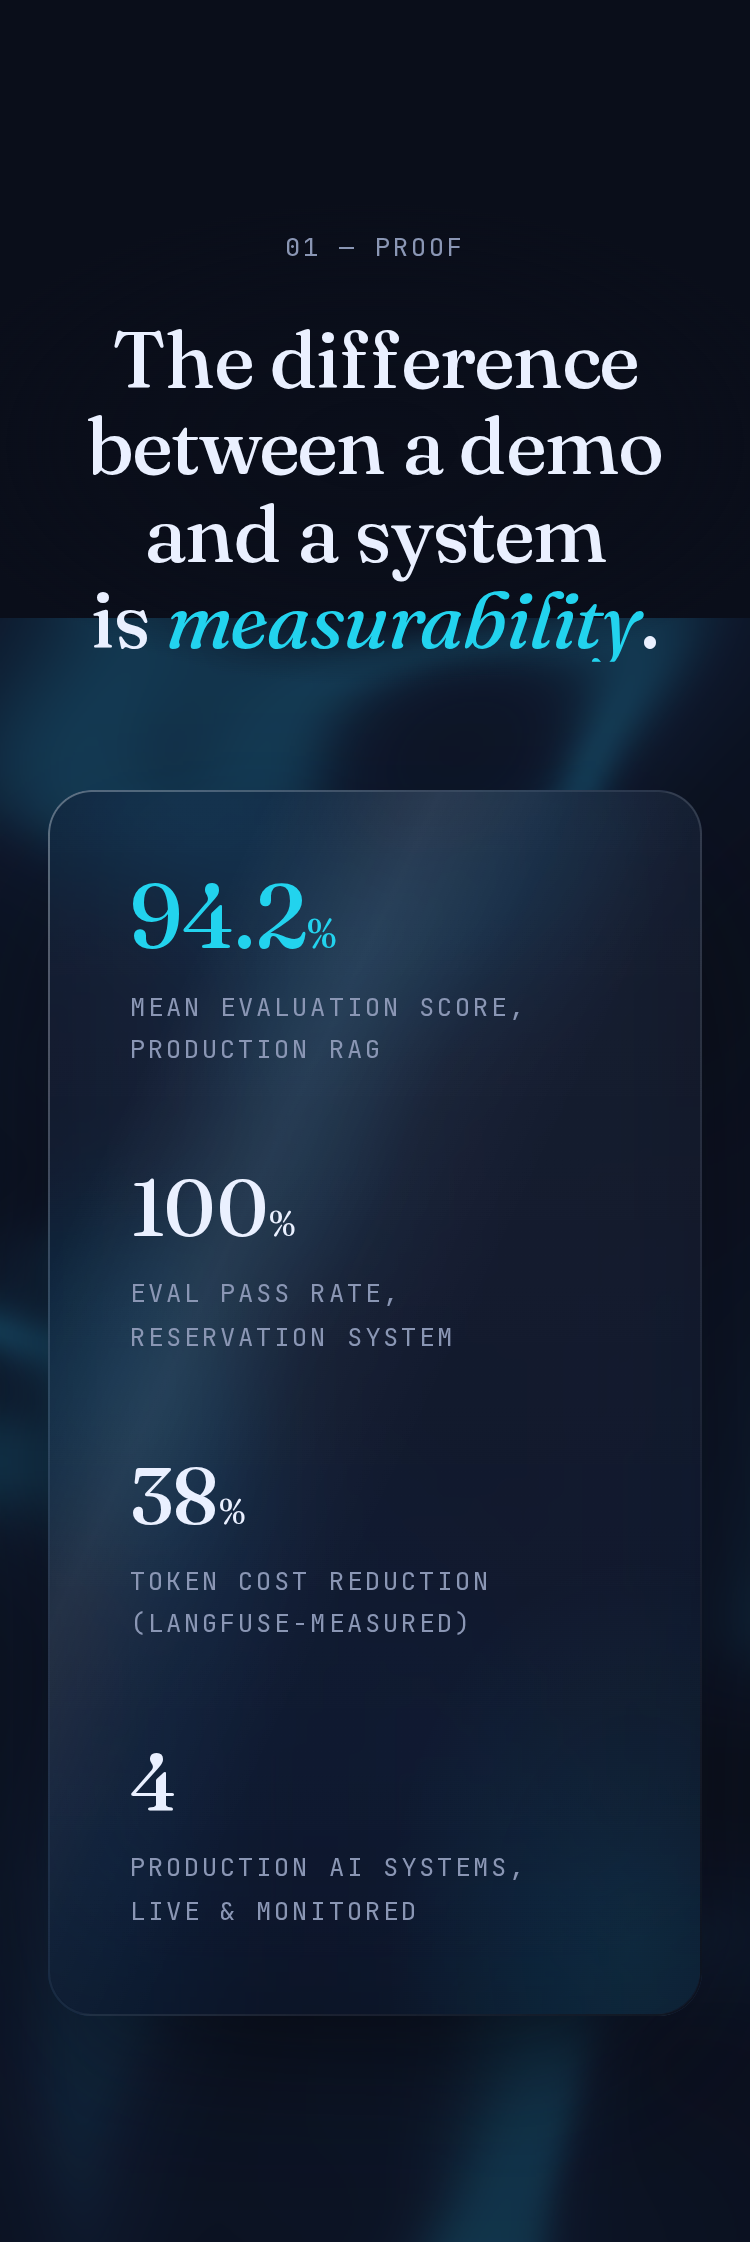
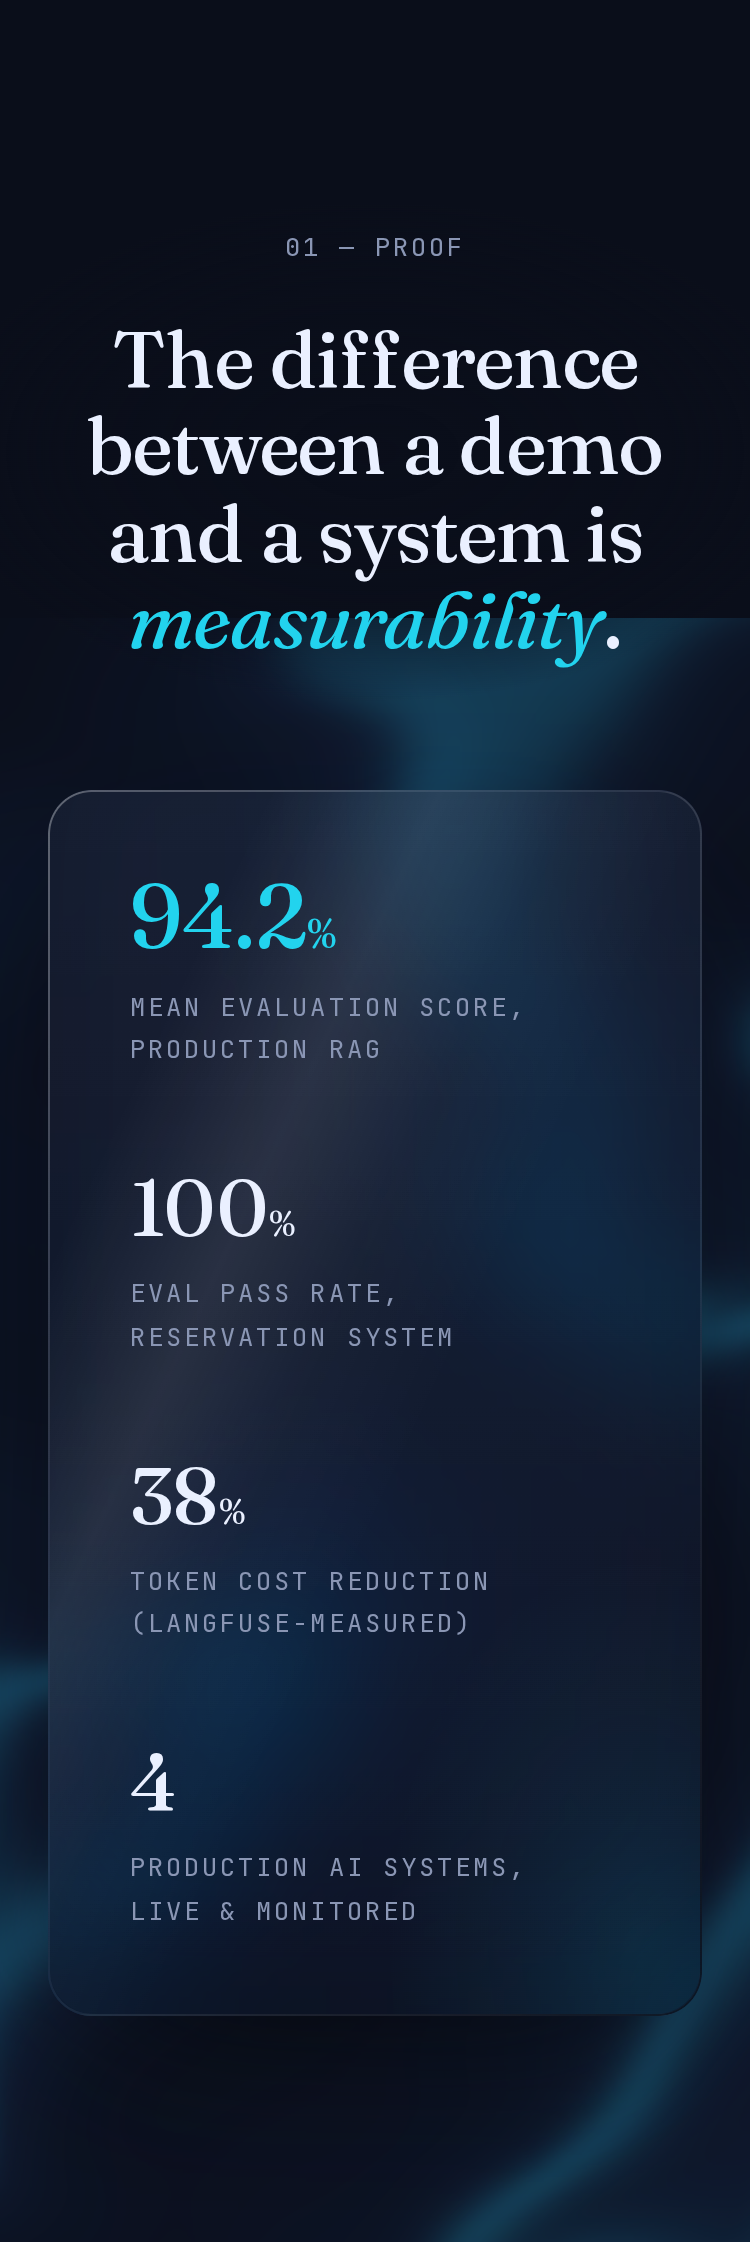
feat(portfolio-dark): cinematic scroll language across the site
One cohesive system (ChapterScroll + SplitText + shader depth):

1. Chapter turns — every [data-chapter] pins at its bottom edge
   (pinSpacing: false) while the next chapter rises over it across
   60vh: outgoing content settles back (scale .965, -4%, dims to 0.2)
   as incoming content rises its last 8% and fades to full. The fixed
   ferrofluid persists through the turn, so sections dissolve through
   one continuous space. Gotcha: pin and scrub must live on ONE
   ScrollTrigger — separate triggers on the same pinned element fight
   over measurements and the scrub never advances.
2. Headline builds — Proof statement splits into masked lines
   (SplitText autoSplit + mask, with the descender-room fix) that rise
   with scroll, scrub 0.6, staggered top-to-bottom between 92% and 45%
   of the viewport.
3. Fluid depth — new uScroll uniform: page progress pans + gently
   zooms the ferrofluid field and lifts intensity ~15% toward the
   page end; eased follow (6%/frame) so it glides with Lenis.
4. Proof count-up + stagger kept as chapter 01's payoff (unchanged).

Reduced motion: no pin, no scrub, no split, no count-up, no shader
depth — sections in plain flow, content instant. Mobile: no pinning
(plain flow) + the lighter shader tier; line reveals + count-up only.

Verified: mid-turn probe (hero 0.50 opacity / .978 scale while Proof
rises at 0.58), tx-hero-proof-mid.png captured, 0 console errors,
0 overflow, tsc + eslint clean.

diff --git a/src/components/portfolio-dark/DarkProof.tsx b/src/components/portfolio-dark/DarkProof.tsx
@@ -1,7 +1,7 @@
 "use client";
 
 import { useRef } from "react";
-import { gsap, EASE } from "@/lib/gsap";
+import { gsap, EASE, SplitText, useGSAP } from "@/lib/gsap";
 import Reveal from "@/components/portfolio/Reveal";
 
 type Metric = {
@@ -43,6 +43,46 @@ const mono: React.CSSProperties = {
 
 export default function DarkProof() {
   const numberRefs = useRef<(HTMLSpanElement | null)[]>([]);
+  const headlineRef = useRef<HTMLHeadingElement>(null);
+
+  // The statement BUILDS as you reach it: split into masked lines that
+  // rise with scroll (soft scrub), staggered top to bottom. Reduced
+  // motion never splits — the h2 just renders.
+  useGSAP(() => {
+    const mm = gsap.matchMedia();
+    mm.add("(prefers-reduced-motion: no-preference)", () => {
+      const el = headlineRef.current;
+      if (!el) return;
+      const split = SplitText.create(el, {
+        type: "lines",
+        mask: "lines",
+        autoSplit: true,
+        onSplit(self) {
+          // same descender-room trick as the hero masks
+          (self.masks as HTMLElement[]).forEach((m) => {
+            m.style.paddingBottom = "0.18em";
+            m.style.marginBottom = "-0.18em";
+          });
+          return gsap.fromTo(
+            self.lines,
+            { yPercent: 115 },
+            {
+              yPercent: 0,
+              ease: "none",
+              stagger: 0.25,
+              scrollTrigger: {
+                trigger: el,
+                start: "clamp(top 92%)",
+                end: "clamp(top 45%)",
+                scrub: 0.6,
+              },
+            }
+          );
+        },
+      });
+      return () => split.revert();
+    });
+  });
 
   // Count-up synced to THE Reveal via its onRevealStart hook — no second
   // scroll trigger. Markup ships the final value, so reduced-motion and
@@ -67,10 +107,11 @@ export default function DarkProof() {
     <section
       id="proof"
       aria-labelledby="proof-heading"
+      data-chapter=""
       className="relative overflow-hidden"
       style={{ paddingBlock: "clamp(6rem, 14vh, 10rem)" }}
     >
-      <div className="mx-auto w-full max-w-[80rem] px-6 lg:px-10">
+      <div data-chapter-inner="" className="mx-auto w-full max-w-[80rem] px-6 lg:px-10">
         {/* Headline block — centered, matching the hero's rhythm */}
         <div className="relative mx-auto max-w-[56rem] text-center">
           {/* soft scrim so the statement stays crisp over the fluid */}
@@ -87,23 +128,25 @@ export default function DarkProof() {
             <p className="uppercase" style={mono}>
               01 — Proof
             </p>
-            <h2
-              id="proof-heading"
-              className="mx-auto mt-[var(--space-6)] max-w-[24ch]"
-              style={{
-                fontFamily: "var(--font-display)",
-                fontSize: "var(--step-6)",
-                fontWeight: 480,
-                lineHeight: 1.08,
-                letterSpacing: "-0.015em",
-                color: "var(--text)",
-                textWrap: "balance",
-              }}
-            >
-              The difference between a demo and a system is{" "}
-              <em style={{ color: "var(--accent)", fontWeight: 440 }}>measurability</em>.
-            </h2>
           </Reveal>
+          {/* scrub-built statement — no data-reveal: SplitText owns it */}
+          <h2
+            id="proof-heading"
+            ref={headlineRef}
+            className="mx-auto mt-[var(--space-6)] max-w-[24ch]"
+            style={{
+              fontFamily: "var(--font-display)",
+              fontSize: "var(--step-6)",
+              fontWeight: 480,
+              lineHeight: 1.08,
+              letterSpacing: "-0.015em",
+              color: "var(--text)",
+              textWrap: "balance",
+            }}
+          >
+            The difference between a demo and a system is{" "}
+            <em style={{ color: "var(--accent)", fontWeight: 440 }}>measurability</em>.
+          </h2>
         </div>
 
         {/* Figures — ONE liquid-glass panel, clean aligned 2×2 */}

diff --git a/src/components/portfolio-dark/Ferrofluid.tsx b/src/components/portfolio-dark/Ferrofluid.tsx
@@ -24,6 +24,7 @@ uniform float uTime;
 uniform vec2 uRes;
 uniform float uIntensity;
 uniform float uDetail;
+uniform float uScroll; /* 0..1 page progress — depth as you move through */
 
 float hash(vec2 p) { return fract(sin(dot(p, vec2(127.1, 311.7))) * 43758.5453); }
 
@@ -50,7 +51,9 @@ float ridge(float n) { return 1.0 - abs(2.0 * n - 1.0); }
 
 void main() {
   vec2 uv = gl_FragCoord.xy / uRes;
-  vec2 p = vec2(uv.x * uRes.x / uRes.y, uv.y) * 1.4;
+  // scrolling moves the camera through the fluid: slow pan + gentle zoom
+  vec2 p = vec2(uv.x * uRes.x / uRes.y, uv.y) * (1.4 + 0.18 * uScroll);
+  p += vec2(uScroll * 0.3, uScroll * 0.85);
 
   float t = uTime * 0.05; // continuous, slow
 
@@ -97,8 +100,10 @@ void main() {
   glow *= vig;
   col *= vig;
 
-  float alpha = clamp(glow, 0.0, 1.0) * uIntensity;
-  gl_FragColor = vec4(col * uIntensity, alpha); /* premultiplied */
+  // fluid warms slightly as you go deeper into the page
+  float k = uIntensity * (1.0 + 0.15 * uScroll);
+  float alpha = clamp(glow, 0.0, 1.0) * k;
+  gl_FragColor = vec4(col * k, alpha); /* premultiplied */
 }
 `;
 
@@ -151,9 +156,20 @@ export default function Ferrofluid() {
     const uRes = gl.getUniformLocation(prog, "uRes");
     const uIntensity = gl.getUniformLocation(prog, "uIntensity");
     const uDetail = gl.getUniformLocation(prog, "uDetail");
+    const uScroll = gl.getUniformLocation(prog, "uScroll");
 
     gl.uniform1f(uIntensity, mobile ? 0.18 : 0.3);
     gl.uniform1f(uDetail, mobile ? 1 : 2);
+    gl.uniform1f(uScroll, 0);
+
+    // page progress → shader depth (skipped under reduced motion)
+    let scrollTarget = 0;
+    let scrollCurrent = 0;
+    const onScroll = () => {
+      const max = document.documentElement.scrollHeight - window.innerHeight;
+      scrollTarget = max > 0 ? window.scrollY / max : 0;
+    };
+    if (!reduced) window.addEventListener("scroll", onScroll, { passive: true });
 
     const resize = () => {
       canvas.width = canvas.clientWidth; // DPR 1 — soft background
@@ -165,6 +181,9 @@ export default function Ferrofluid() {
     window.addEventListener("resize", resize);
 
     const draw = (timeSec: number) => {
+      // eased follow so the depth shift glides with Lenis, never snaps
+      scrollCurrent += (scrollTarget - scrollCurrent) * 0.06;
+      gl.uniform1f(uScroll, scrollCurrent);
       gl.uniform1f(uTime, timeSec);
       gl.clearColor(0, 0, 0, 0);
       gl.clear(gl.COLOR_BUFFER_BIT);
@@ -185,6 +204,7 @@ export default function Ferrofluid() {
     return () => {
       cancelAnimationFrame(raf);
       window.removeEventListener("resize", resize);
+      window.removeEventListener("scroll", onScroll);
       gl.getExtension("WEBGL_lose_context")?.loseContext();
     };
   }, []);

diff --git a/src/components/portfolio-dark/ChapterScroll.tsx b/src/components/portfolio-dark/ChapterScroll.tsx
@@ -1,0 +1,76 @@
+"use client";
+
+import { useGSAP, gsap } from "@/lib/gsap";
+
+/**
+ * THE scroll language — one system, applied between every [data-chapter].
+ *
+ * Chapter turn: as a chapter's bottom reaches the viewport bottom it PINS
+ * (pinSpacing: false) so the next chapter physically rises over it. During
+ * the 60vh overlap the covered chapter's [data-chapter-inner] settles back
+ * (scale 0.965, -4%, dims to 0.2) while the incoming chapter's inner rises
+ * the last 8% and fades to full — a crossfade through the shared ferrofluid
+ * space rather than a hard cut. Scrub-synced to Lenis via native scroll.
+ *
+ * Desktop + full-motion only: mobile and prefers-reduced-motion get plain
+ * document flow (sections simply follow each other).
+ */
+export default function ChapterScroll() {
+  useGSAP(() => {
+    const mm = gsap.matchMedia();
+
+    mm.add("(prefers-reduced-motion: no-preference) and (min-width: 768px)", () => {
+      const chapters = gsap.utils.toArray<HTMLElement>("[data-chapter]");
+
+      chapters.forEach((sec, i) => {
+        const inner =
+          sec.querySelector<HTMLElement>("[data-chapter-inner]") ?? sec;
+
+        // outgoing: ONE trigger pins the chapter AND scrubs its settle-back
+        // (separate pin + scrub triggers on the same element fight over
+        // measurements — the scrub never advanced)
+        if (i < chapters.length - 1) {
+          gsap.fromTo(
+            inner,
+            { autoAlpha: 1, scale: 1, yPercent: 0 },
+            {
+              autoAlpha: 0.2,
+              scale: 0.965,
+              yPercent: -4,
+              ease: "none",
+              scrollTrigger: {
+                trigger: sec,
+                start: "bottom bottom",
+                end: "+=60%",
+                scrub: true,
+                pin: sec,
+                pinSpacing: false,
+              },
+            }
+          );
+        }
+
+        // incoming: rise the last stretch + fade up to full presence
+        if (i > 0) {
+          gsap.fromTo(
+            inner,
+            { yPercent: 8, autoAlpha: 0 },
+            {
+              yPercent: 0,
+              autoAlpha: 1,
+              ease: "none",
+              scrollTrigger: {
+                trigger: sec,
+                start: "top bottom",
+                end: "top 35%",
+                scrub: 0.5,
+              },
+            }
+          );
+        }
+      });
+    });
+  });
+
+  return null;
+}

diff --git a/src/lib/gsap.ts b/src/lib/gsap.ts
@@ -3,11 +3,12 @@
 import gsap from "gsap";
 import { ScrollTrigger } from "gsap/ScrollTrigger";
 import { CustomEase } from "gsap/CustomEase";
+import { SplitText } from "gsap/SplitText";
 import { useGSAP } from "@gsap/react";
 
 // Single registration point for the whole portfolio.
 if (typeof window !== "undefined") {
-  gsap.registerPlugin(ScrollTrigger, CustomEase, useGSAP);
+  gsap.registerPlugin(ScrollTrigger, CustomEase, SplitText, useGSAP);
   // Mirrors --ease: cubic-bezier(0.16, 1, 0.3, 1)
   if (!CustomEase.get("pf")) CustomEase.create("pf", "0.16, 1, 0.3, 1");
 }
@@ -21,4 +22,4 @@ export const prefersReducedMotion = () =>
   typeof window !== "undefined" &&
   window.matchMedia("(prefers-reduced-motion: reduce)").matches;
 
-export { gsap, ScrollTrigger, useGSAP };
+export { gsap, ScrollTrigger, SplitText, useGSAP };

diff --git a/src/components/portfolio-dark/DarkHero.tsx b/src/components/portfolio-dark/DarkHero.tsx
@@ -41,10 +41,14 @@ export default function DarkHero() {
     <section
       id="hero"
       ref={scope}
+      data-chapter=""
       className="relative flex min-h-[100svh] items-center overflow-hidden"
     >
       {/* No hero object — the ferrofluid background + centered type IS the hero */}
-      <div className="relative z-10 mx-auto w-full max-w-[80rem] px-6 lg:px-10">
+      <div
+        data-chapter-inner=""
+        className="relative z-10 mx-auto w-full max-w-[80rem] px-6 lg:px-10"
+      >
         <div className="relative mx-auto flex max-w-[52rem] flex-col items-center text-center">
           {/* readability scrim — soft radial dark pool behind the text block */}
           <div

diff --git a/src/app/page.tsx b/src/app/page.tsx
@@ -3,6 +3,7 @@ import Ferrofluid from "@/components/portfolio-dark/Ferrofluid";
 import DarkNav from "@/components/portfolio-dark/DarkNav";
 import DarkHero from "@/components/portfolio-dark/DarkHero";
 import DarkProof from "@/components/portfolio-dark/DarkProof";
+import ChapterScroll from "@/components/portfolio-dark/ChapterScroll";
 
 // DARK GLASS VARIANT (feat/portfolio-dark-glass) — the light editorial
 // version lives on feat/portfolio-v4-hero, untouched.
@@ -22,6 +23,7 @@ export default function Home() {
       <main id="main" className="relative" style={{ zIndex: 1 }}>
         <DarkHero />
         <DarkProof />
+        <ChapterScroll />
       </main>
     </div>
   );
